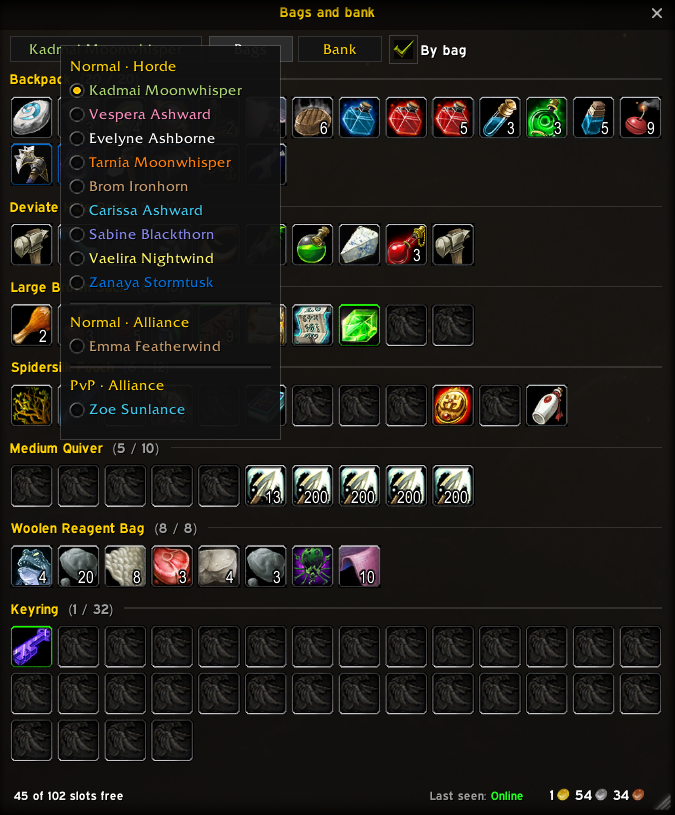
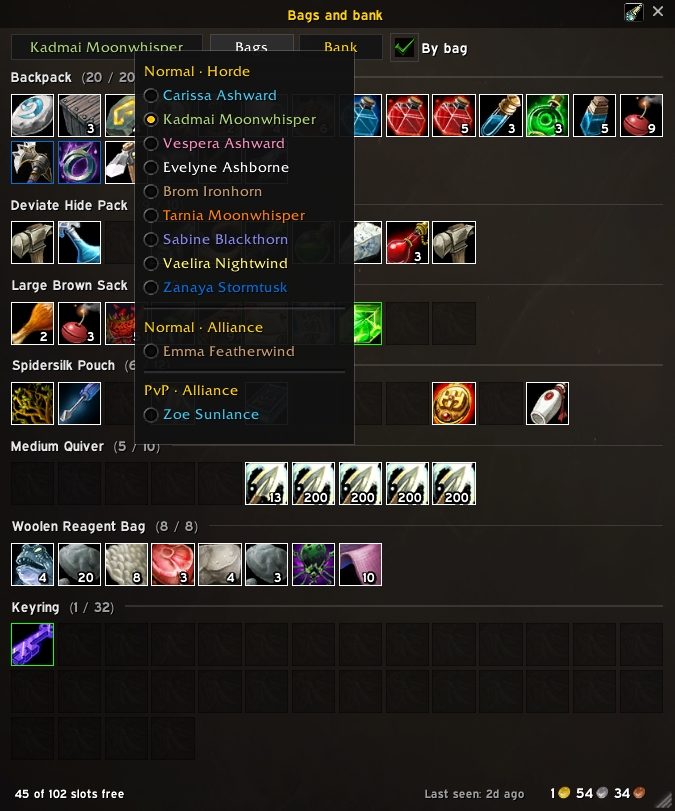
README: search screenshot, updated bags and tooltip screenshots

diff --git a/README.md b/README.md
@@ -20,9 +20,11 @@ Type `/af` to open the **overview**: every character with level and XP, rested X
 
 **Bags and bank:** your own bags and bank (an entry in the bag's portrait menu, or a small Alts Forever button in the header of Blizzard's bank and of ElvUI's and EllesmereUI's bags and bank), the bag button in the overview's title bar (or `/af bags`, `/af bank`, or right-click a character) opens a window showing any character's bags or bank slot by slot, as you last saw them: each stack with its count, empty slots, how many slots are free, and a coloured border for uncommon and better items. Everything shows in one grid, or tick **By bag** for a section per bag or bank tab, e.g. "Red Linen Bag (7 / 8)". The character's gold is at the bottom. Drag the bottom-right corner to resize: the width sets the slots per row (10 to 30), the height how tall it gets before scrolling, and both are remembered. Pick the character from the dropdown and switch between Bags and Bank. Hover an item for its tooltip, shift-click to link it. A character's slots are recorded the next time you log in on them (bags) or visit their bank; until then the window shows one slot per item with its total.
 
-![The bags window, By bag: a section per bag with used and total slots, and the character dropdown open](media/bags-bank.png)
+![The bags window, By bag: a section per bag with used and total slots, and the character dropdown open, grouped by ruleset and faction](media/bags-bank.png)
 
 **Search:** `/afs` (or `/af search` or `/af find`, the magnifier in the overview, Search... in the options menu, or a key you bind under Key Bindings > Alts Forever) opens a search box for every item your characters have **or can craft**. Each result shows how many you have, who has them and who can make it. Use the arrow keys and press Enter to open that character's bags or bank with the item lit up (yours first, else whoever has the most). The item stays lit as you switch character or bags and bank: the arrows beside "Showing: ..." at the bottom step through everyone who has it, and the character list shows how many each has. Right-click a result to choose whose bags or bank to open. Click "Showing: ..." to see every slot again; Shift+Enter links it in chat. Start with `@owned` (has it) or `@craft` (can make it, with the crafters listed first) to narrow it, e.g. `@craft sword`. The character menu beside the box searches all your characters or only the ones you tick. Characters on other rulesets and factions are left out unless you show them in tooltips. The bags window has a search button too, in its title bar. **The search stays open beside the bags window:** opened from it, it starts on the character it shows, and it lights the selected item up there as you move through the results, switching to their bank if that's where it is. Enter keeps it lit; an item someone is wearing opens their gear on the search's other side; closing the search shows every slot again. The search remembers what you last typed, selected so typing replaces it.
+
+![The search beside the bags window: Linen Cloth lit up in the bags, the results with who has how many and who can craft them, and the item tooltip with every character's count](media/search.png)
 
 **Mail expiry:** a few seconds after you log in, Alts Forever warns in chat if any character has mail with items or gold expiring within 3 days, and says whether it'll be returned to the sender or deleted. The overview's Mail column shows how long each character has; `/af mail` lists them all.
 
